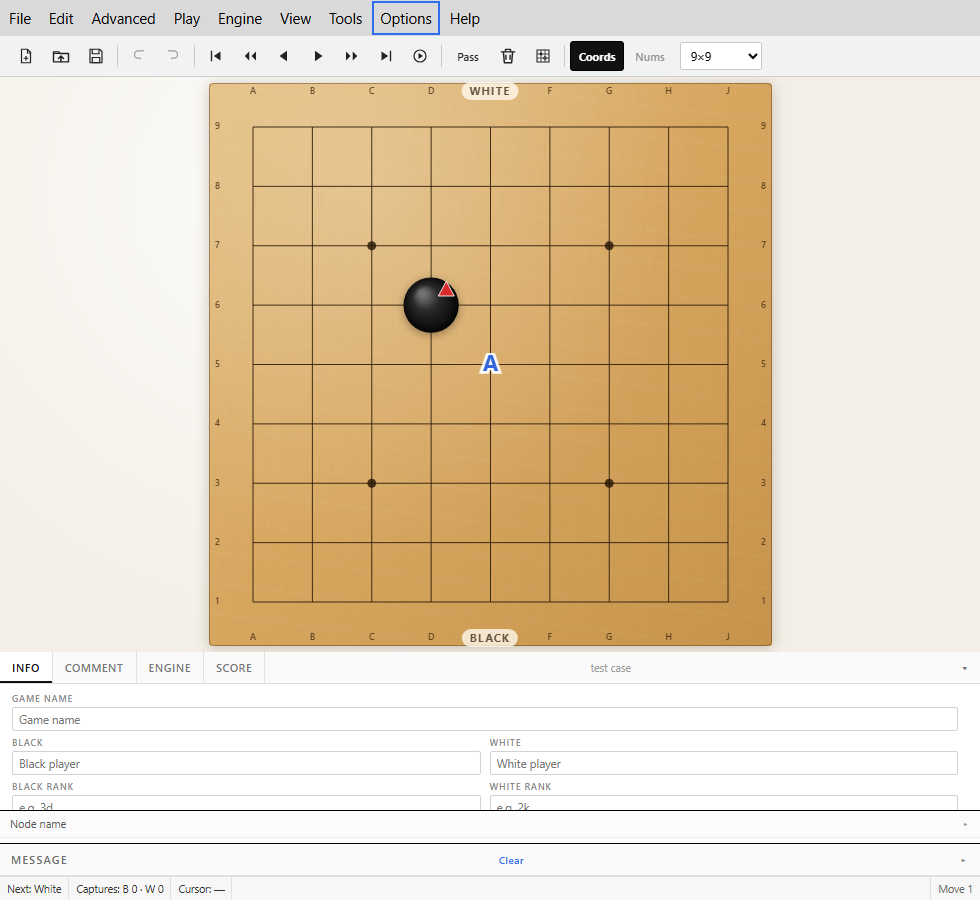
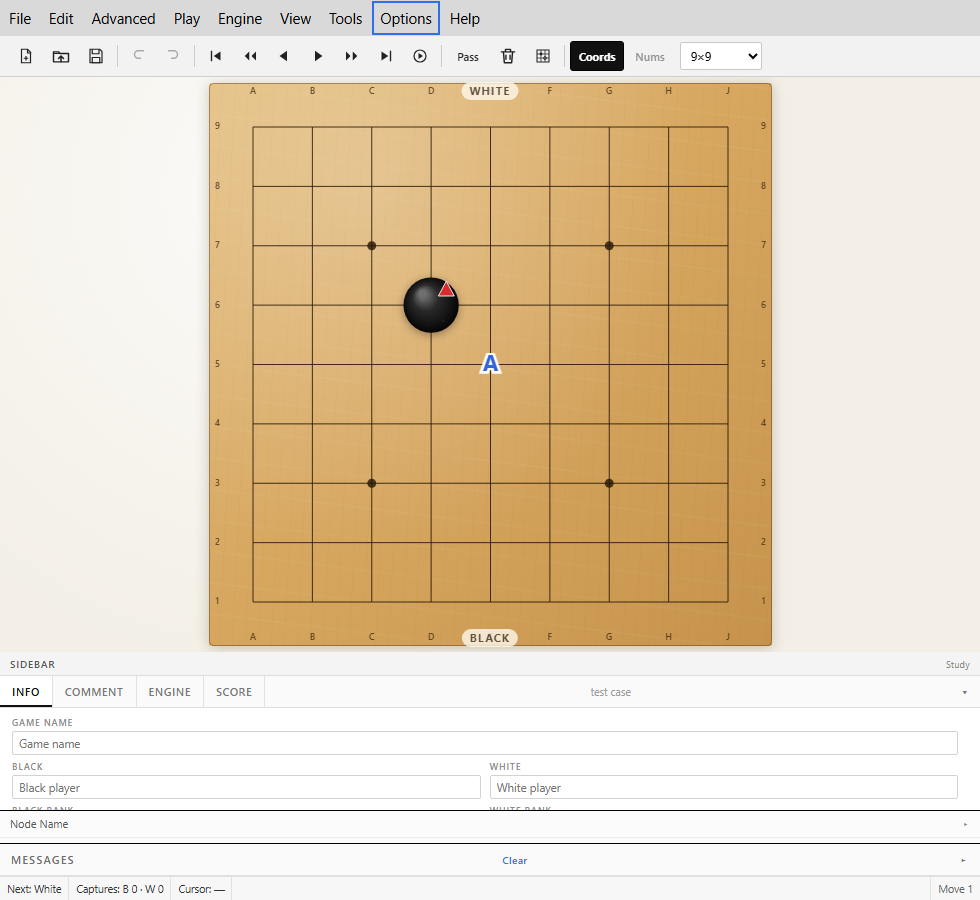
Name the sidebar and its panel parts

Changed region(s): [[0.0, 0.7156, 0.9796, 0.9333], [0.5816, 0.7156, 0.6429, 0.7778]]

diff --git a/src/index.html b/src/index.html
@@ -647,9 +647,13 @@
            aria-orientation="vertical" aria-label="Resize board and side panels"
            aria-valuemin="18" aria-valuemax="82" aria-valuenow="72.6" tabindex="0"></div>
 
-      <div class="right-column" id="right-column">
-        <section class="pane pane-info" id="pane-info" aria-label="Game info and comments">
-          <div class="panel-head info-head" id="info-head">
+      <div class="right-column" id="right-column" aria-labelledby="sidebar-heading">
+        <div class="sidebar-heading" id="sidebar-heading" title="Sidebar parts: Info tabs, Node Name, Variations, Game Tree, Messages">
+          <span>Sidebar</span>
+          <span class="panel-meta">Study</span>
+        </div>
+        <section class="pane pane-info" id="pane-info" aria-label="Info tabs: Info, Comment, Engine and Score">
+          <div class="panel-head info-head" id="info-head" title="Info tabs: Info, Comment, Engine, Score">
             <div class="tabs" role="tablist" aria-label="Information panels">
               <button type="button" class="tab is-active" id="tab-info" role="tab" aria-selected="true" aria-controls="panel-info" data-tab="info">Info</button>
               <button type="button" class="tab" id="tab-comment" role="tab" aria-selected="false" aria-controls="panel-comment" data-tab="comment">Comment</button>
@@ -891,16 +895,16 @@
 
         <section class="pane pane-moves" id="pane-moves" aria-label="Game tree">
           <div class="branch-panels" id="branch-panels">
-            <section class="tree-section" id="node-name-section">
-              <button type="button" class="tree-section-head" id="node-name-head" aria-expanded="false" aria-controls="node-name-body">
-                <span>Node name</span><span class="tree-section-chevron" aria-hidden="true">▸</span>
+            <section class="tree-section" id="node-name-section" aria-label="Node Name section">
+              <button type="button" class="tree-section-head" id="node-name-head" aria-expanded="false" aria-controls="node-name-body" title="Node Name section">
+                <span>Node Name</span><span class="tree-section-chevron" aria-hidden="true">▸</span>
               </button>
               <div class="tree-section-body" id="node-name-body" hidden>
                 <input type="text" id="branch-node-name" maxlength="120" placeholder="Node name" aria-label="Node name">
               </div>
             </section>
-            <section class="tree-section" id="variations-section">
-              <button type="button" class="tree-section-head" id="variations-head" aria-expanded="true" aria-controls="variations-body">
+            <section class="tree-section" id="variations-section" aria-label="Variations section">
+              <button type="button" class="tree-section-head" id="variations-head" aria-expanded="true" aria-controls="variations-body" title="Variations section: immediate next moves">
                 <span>Variations</span><span class="tree-section-chevron" aria-hidden="true">▾</span>
               </button>
               <div class="tree-section-body" id="variations-body">
@@ -908,7 +912,7 @@
               </div>
             </section>
           </div>
-          <div class="panel-head" id="tree-head">
+          <div class="panel-head" id="tree-head" title="Game Tree panel">
             <span>Game Tree</span>
             <span class="panel-meta" id="tree-meta">0 nodes</span>
           </div>
@@ -920,8 +924,8 @@
              aria-valuemin="10" aria-valuemax="50" aria-valuenow="20" tabindex="0"></div>
 
         <section class="pane pane-message" id="pane-message" aria-label="Messages">
-          <div class="panel-head" id="message-head">
-            <span>Message</span>
+          <div class="panel-head" id="message-head" title="Messages panel">
+            <span>Messages</span>
             <button type="button" class="message-clear" id="clear-message-button">Clear</button>
           </div>
           <div class="statuslog" id="statuslog" role="log" aria-live="polite"></div>
@@ -960,7 +964,7 @@
       <button type="button" class="icon-button" data-close-dialog aria-label="Close">×</button>
     </div>
     <div class="dialog-body">
-      <p class="about-name">MultiGo Neo <span class="muted">1.1.16</span></p>
+      <p class="about-name">MultiGo Neo <span class="muted">1.1.17</span></p>
       <p>A Go record editor and player modelled on the MultiGo workspace: a 13×13 board,
          game information, a move list, and a status bar in a single-window desktop shell.</p>
       <dl class="about-meta">

diff --git a/src/renderer.js b/src/renderer.js
@@ -736,6 +736,7 @@
     'Remember Last Board Size': '记住上次棋盘尺寸',
     'Autoplay Delay': '自动播放间隔',
     'Reset All Settings': '重置所有设置', 'Keyboard Shortcuts': '快捷键', 'About MultiGo Neo': '关于 MultiGo Neo',
+    Sidebar: '侧栏', Study: '研习', 'Node Name': '节点名称', Messages: '消息',
     README: 'README', Features: '功能', Tutorial: '教程',
     'README (PDF)': 'README (PDF)', 'Features (PDF)': '功能 (PDF)', 'Tutorial (PDF)': '教程 (PDF)',
     'Show Go Bowls': '显示棋钵', Rules: '规则',

diff --git a/src/styles.css b/src/styles.css
@@ -641,6 +641,28 @@ button {
   min-height: 0;
 }
 
+.sidebar-heading {
+  display: flex;
+  flex: 0 0 24px;
+  align-items: center;
+  justify-content: space-between;
+  padding: 0 10px;
+  border-bottom: 1px solid var(--hair);
+  background: #f4f4f4;
+  color: #555;
+  font-size: 10px;
+  font-weight: 600;
+  letter-spacing: 0.08em;
+  text-transform: uppercase;
+}
+
+.sidebar-heading .panel-meta {
+  color: #888;
+  font-size: 9px;
+  font-weight: 400;
+  letter-spacing: 0.04em;
+}
+
 .pane-info,
 .pane-moves,
 .pane-message {

diff --git a/README.md b/README.md
@@ -21,8 +21,9 @@ list**, compact **pass** nodes in the game tree and the **四4** coordinate syst
 Options menus now use compact dropdowns, and the toolbar **Coords / Nums** labels are white and
 bold when active, dimmed when off.
 
-The **1.1.16 build** adds a **Scrolling mode** for the menu and tool bars, an alternative to
-their wrapping mode. The 1.1.15 build tightens the grey menu bar from 49 px to **36 px**. The
+The **1.1.17 build** names the right-hand **Sidebar** and its parts. The 1.1.16 build adds a
+**Scrolling mode** for the menu and tool bars, an alternative to their wrapping mode. The 1.1.15
+build tightens the grey menu bar from 49 px to **36 px**. The
 1.1.14 build adds **PDF editions** of the README, Features register and Tutorial, and the Help
 menu opens those PDFs; 1.1.13 added the Help links and 1.1.12 packaged the Markdown manuals with
 the installer, portable build and web folder. The 1.1.11 build added click-to-toggle **double-size
@@ -49,6 +50,16 @@ boards [below](#board-themes-and-responsive-layout).
 ![MultiGo Neo with a variation tree and the five-stone setup](preview/preview.png)
 
 ## What is implemented
+
+### Version 1.1.17
+
+Released 2026-11-25. The Windows artifacts are `MultiGo-Neo-1.1.17-setup.exe` and
+`MultiGo-Neo-1.1.17-portable.exe`, plus `MultiGo-Neo-1.1.17-web.zip` for the browser build.
+
+- **Named sidebar** — the right-hand column now has a **Sidebar** heading (with a “Study” meta
+  label). Its parts carry explicit names: **Info tabs** (Info, Comment, Engine, Score),
+  **Node Name**, **Variations**, **Game Tree** and **Messages**. Tooltips/ARIA labels match the
+  visible names.
 
 ### Version 1.1.16
 
@@ -1214,7 +1225,7 @@ normal interactive desktop terminal.
 MultiGo Neo ships as a normal Windows application — no Node.js, no internet connection and
 no Microsoft Store required.
 
-1. Download **`MultiGo-Neo-1.1.16-setup.exe`** from the
+1. Download **`MultiGo-Neo-1.1.17-setup.exe`** from the
    [Releases page](https://github.com/lots/my-MultiGoNeo/releases), or build it yourself
    (see *Standalone build* below).
 2. Run the installer. It is per-user by default, so it does not ask for administrator
@@ -1222,7 +1233,7 @@ no Microsoft Store required.
    entry.
 3. Launch **MultiGo Neo** from the shortcut.
 
-`MultiGo-Neo-1.1.16-portable.exe` is the same app as a single portable executable — copy it
+`MultiGo-Neo-1.1.17-portable.exe` is the same app as a single portable executable — copy it
 to a USB stick and run it; nothing is installed.
 
 **Open SGF by double-clicking:** the installer registers the `.sgf` file association, so
@@ -1346,9 +1357,9 @@ npm run dist:win   # NSIS installer + portable exe in release/
 
 Artifacts:
 
-- `release/MultiGo-Neo-1.1.16-setup.exe` — NSIS installer (per-user, selectable folder).
-- `release/MultiGo-Neo-1.1.16-portable.exe` — single-file portable build.
-- `release/MultiGo-Neo-1.1.16-web.zip` — portable web build, written by `npm run dist:web`.
+- `release/MultiGo-Neo-1.1.17-setup.exe` — NSIS installer (per-user, selectable folder).
+- `release/MultiGo-Neo-1.1.17-portable.exe` — single-file portable build.
+- `release/MultiGo-Neo-1.1.17-web.zip` — portable web build, written by `npm run dist:web`.
 - `README.md`, `Features.md`, `Tutorial.md` — also copied to the install root and web folder.
 - `release/win-unpacked/MultiGo Neo.exe` — unpacked application.
 

diff --git a/Features.md b/Features.md
@@ -1,6 +1,6 @@
 # MultiGo Neo — Feature Register
 
-**Version:** 1.1.16 · **Updated:** 2026-11-24 · **Repository:** [lots/my-MultiGoNeo](https://github.com/lots/my-MultiGoNeo) · **Latest release:** [v1.1.16](https://github.com/lots/my-MultiGoNeo/releases/tag/v1.1.16)
+**Version:** 1.1.17 · **Updated:** 2026-11-25 · **Repository:** [lots/my-MultiGoNeo](https://github.com/lots/my-MultiGoNeo) · **Latest release:** [v1.1.17](https://github.com/lots/my-MultiGoNeo/releases/tag/v1.1.17)
 
 This document tabulates every direct feature request captured during the project's working
 sessions, what was delivered, and when it first shipped. A second section lists the notable
@@ -10,9 +10,9 @@ full manual live in [README.md](README.md).
 **Status key:** ✅ released · 🧪 verified in source and covered by a check · 📦 packaged in the
 installer, portable build and web zip.
 
-> **Latest (1.1.16): scrolling bar mode.** View → Scroll Menu and Tool Bars switches the two top
-> bars from wrapping to one-row horizontal scrolling. The 1.1.15 compact 36 px menu bar, packaged
-> PDF documentation and earlier features remain below.
+> **Latest (1.1.17): named sidebar.** The right-hand column is now labelled **Sidebar**, with
+> **Info tabs**, **Node Name**, **Variations**, **Game Tree** and **Messages** sections. The
+> 1.1.16 scrolling bar mode, packaged PDF documentation and earlier features remain below.
 
 ---
 
@@ -36,6 +36,7 @@ installer, portable build and web zip.
 | 14 | Include **README.md, Features.md and Tutorial.md** in the installation root folder of every distribution. | Both packagers copy the three documents to the root of the installer/portable app and of the web folder/zip. | ✅📦 | 1.1.12 |
 | 15 | Reduce the **empty space above and below the grey menu labels**. | Menu bar height reduced from 49 px to **36 px**; 18 px labels keep 6 px above/below, and a wrapped two-row bar is 72 px. Popups and responsive sizes unchanged. | ✅🧪 | 1.1.15 |
 | 16 | Offer a **Scrolling mode** for the menu and tool bars as an alternative to wrapping when the window is narrow. | View → Scroll Menu and Tool Bars keeps each bar on one row with a horizontal scrollbar; popups are fixed below the bar and the mode persists. | ✅🧪📦 | 1.1.16 |
+| 17 | Provide **names for the multiple parts** of the right-hand panel beside the goban. | Sidebar heading names the column; parts are **Info tabs** (Info/Comment/Engine/Score), **Node Name**, **Variations**, **Game Tree**, **Messages**. Visible labels, tooltips and ARIA names match. | ✅🧪📦 | 1.1.17 |
 
 ### 1.1 Request notes
 
@@ -207,5 +208,5 @@ version-independent registry keys). It is not a side-by-side installer:
 
 ---
 
-*Feature register for MultiGo Neo 1.1.15. For usage, shortcuts and SGF details see
+*Feature register for MultiGo Neo 1.1.17. For usage, shortcuts and SGF details see
 [README.md](README.md).*

diff --git a/Tutorial.md b/Tutorial.md
@@ -1,6 +1,6 @@
 # MultiGo Neo — Beginner Tutorial
 
-**Version 1.1.16 · about 10 minutes · no Go experience required**
+**Version 1.1.17 · about 10 minutes · no Go experience required**
 
 This tutorial walks through the most common task: **open a game record, replay it, try a variation, save your work, score it and export a picture**. Follow the steps in order; each one tells you what you should see.
 
